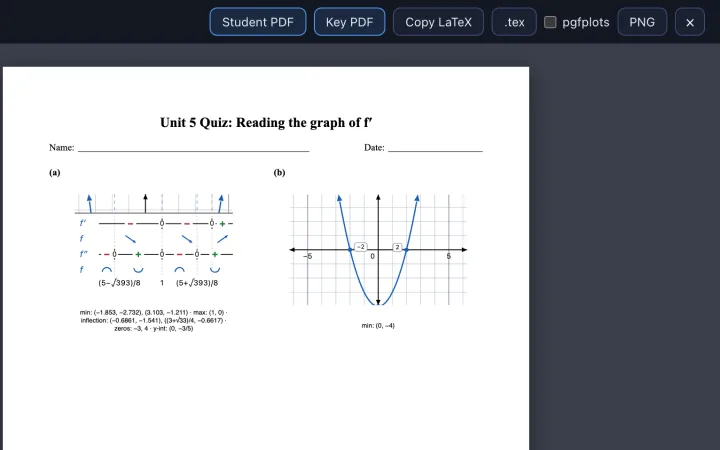
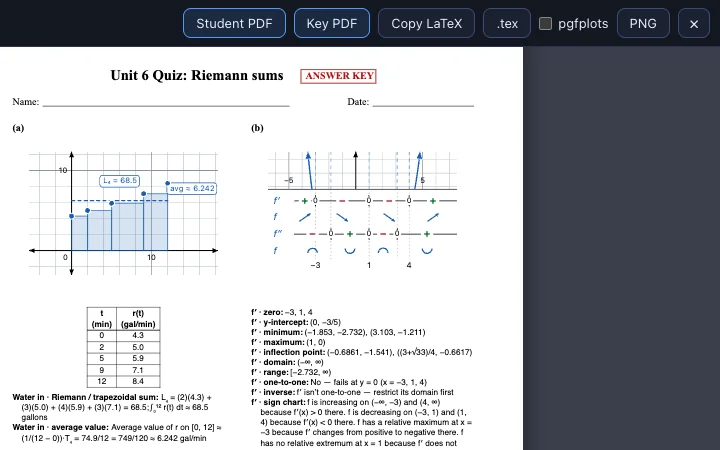
Landing: the Print panel shows the new answer key

Changed region(s): [[0.0, 0.0, 1.0, 1.0], [0.3361, 0.6844, 0.6722, 0.9956], [0.3667, 0.3111, 0.6417, 0.6844]]

diff --git a/src/platform/Landing.tsx b/src/platform/Landing.tsx
@@ -48,7 +48,7 @@ const PANELS = [
     id: 'print',
     title: 'Print',
     img: printImg,
-    alt: 'The worksheet builder: a white Letter page titled “Unit 5 Quiz: Reading the graph of f′” with two figures and their answer key, under buttons for Student PDF, Key PDF, Copy LaTeX, .tex and pgfplots.',
+    alt: 'The worksheet builder’s answer key preview: “Unit 6 Quiz: Riemann sums” marked ANSWER KEY, a rate table’s left Riemann sum L₄ = 68.5 with its data table and worked answer, and a graph of f′ with its sign chart and justifications, under buttons for Student PDF, Key PDF, Copy LaTeX, .tex and pgfplots.',
     text: 'Build a worksheet and its answer key, and export any figure as SVG, PDF or LaTeX/TikZ.',
   },
 ] as const
